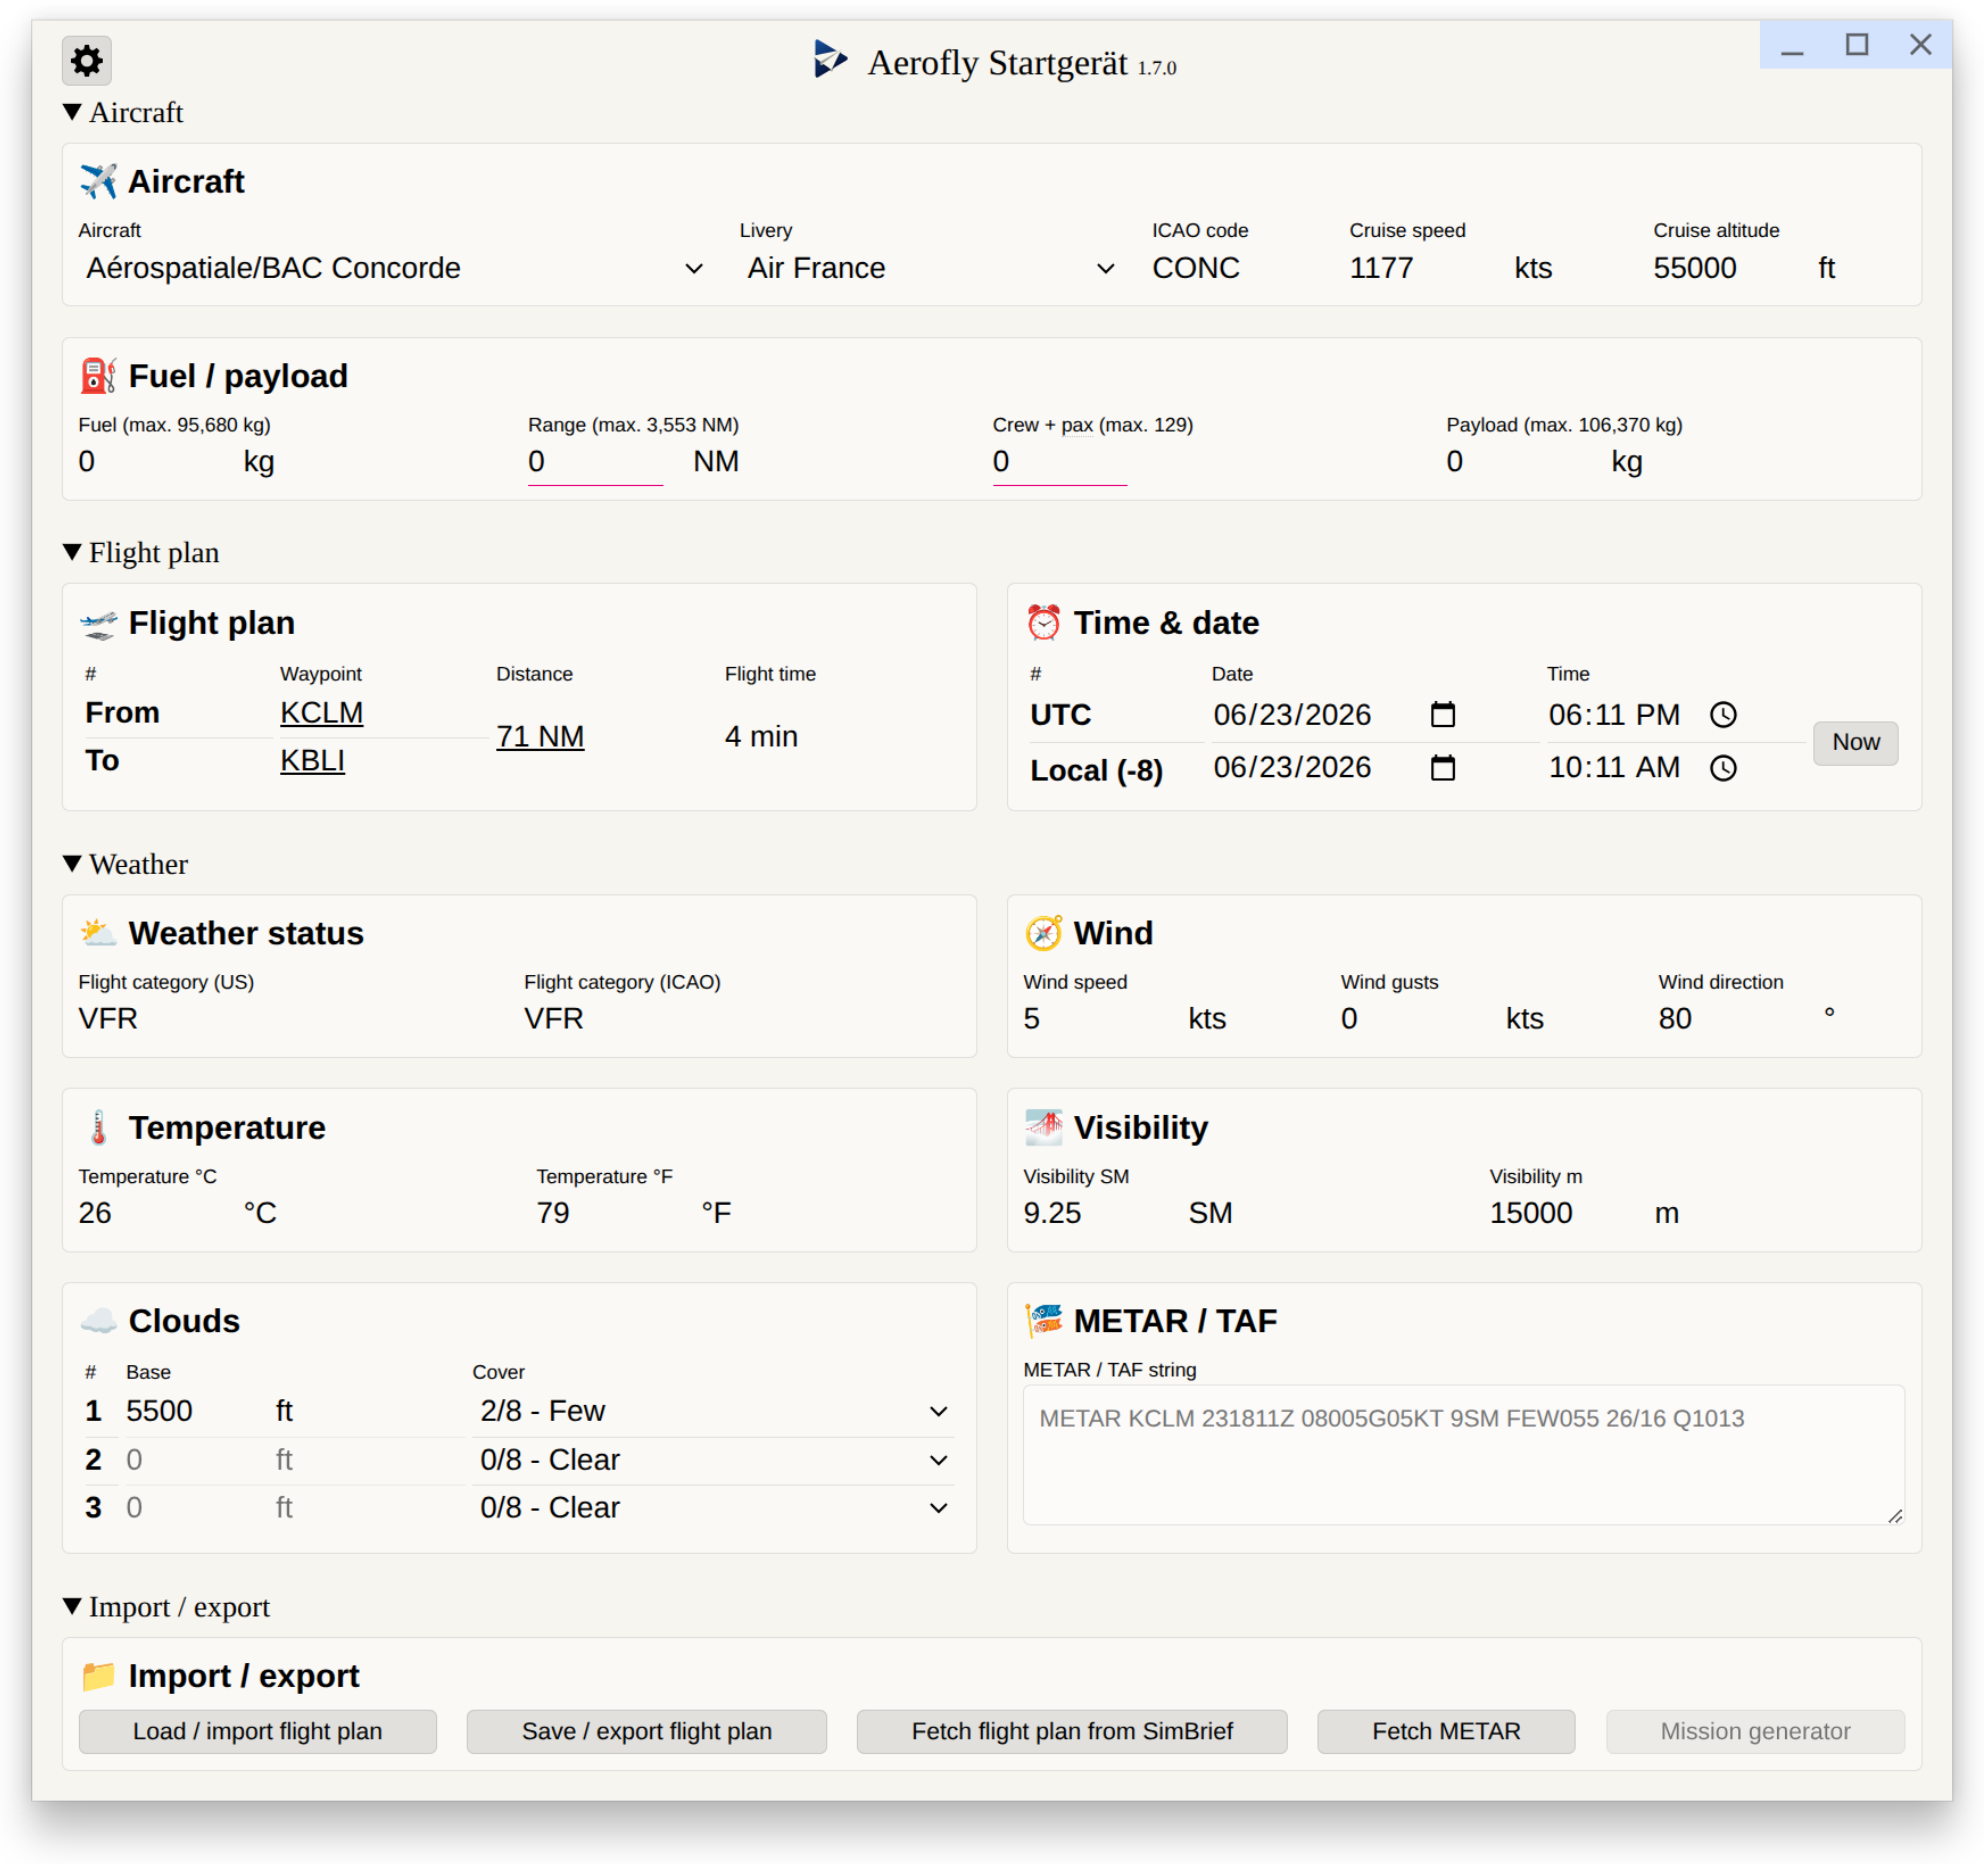
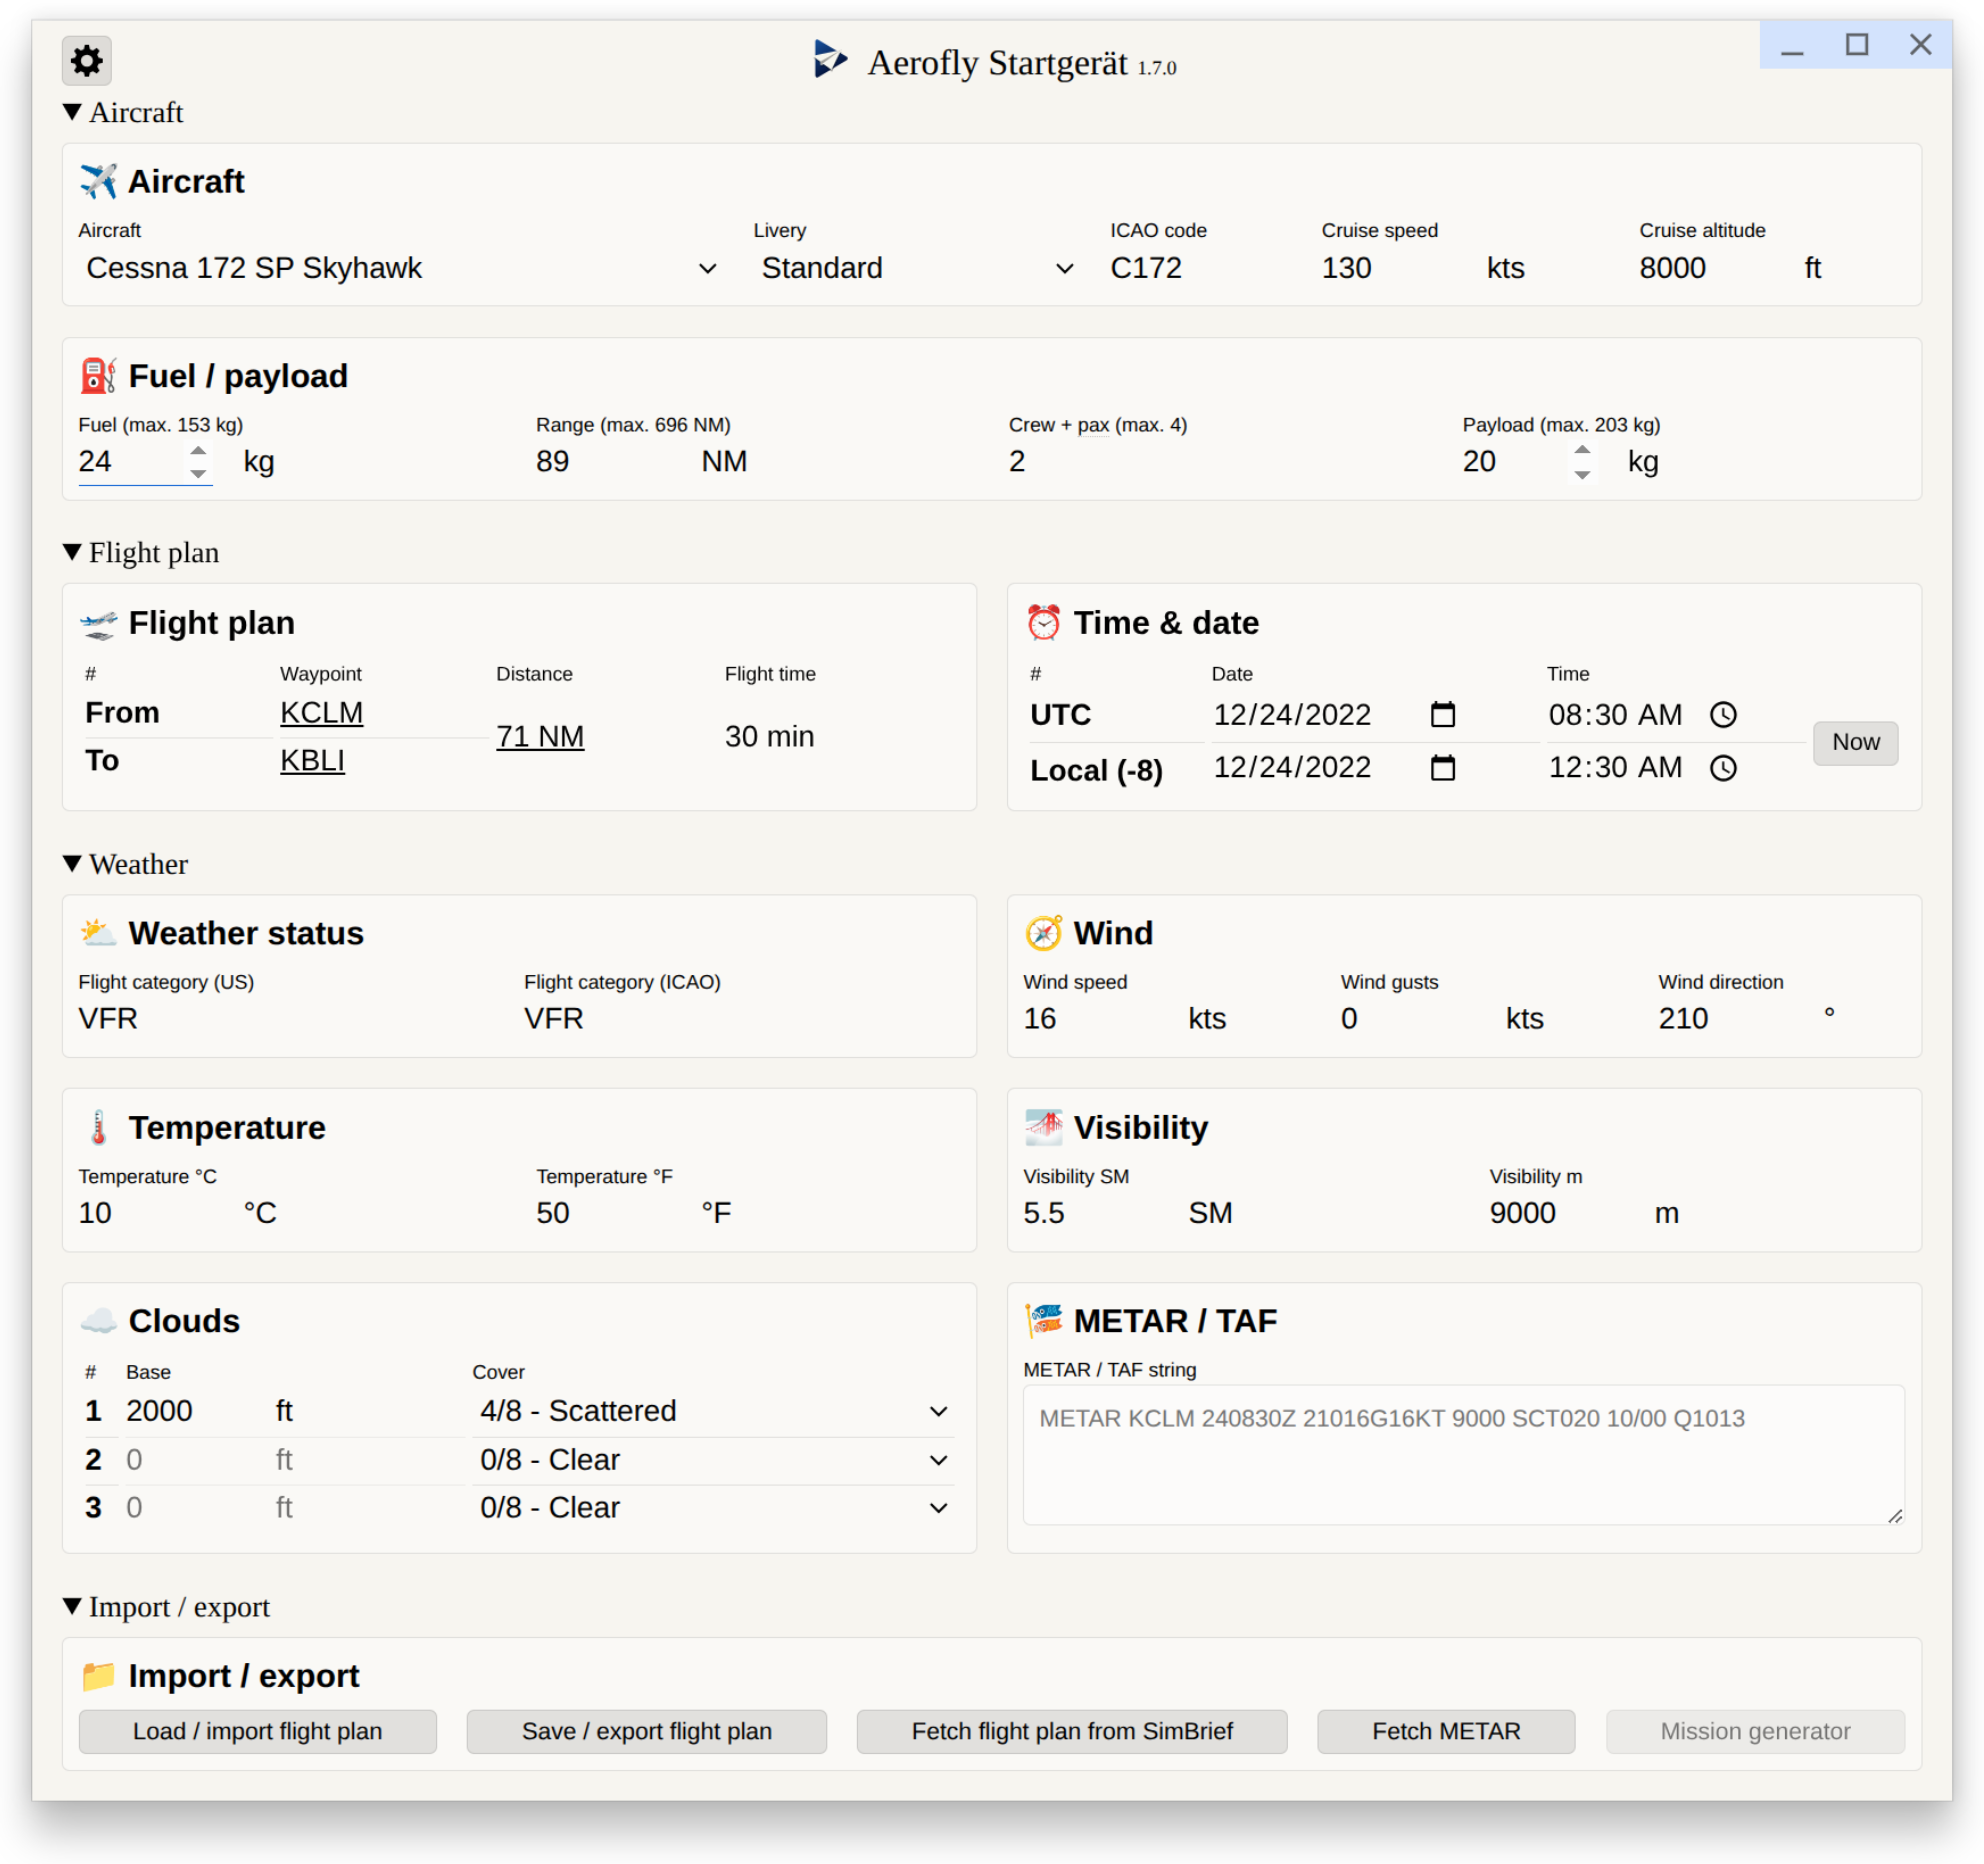
Improved fuel handling with persons

diff --git a/dist/gui/web-components/form/FuelPayloadWebComponent.js b/dist/gui/web-components/form/FuelPayloadWebComponent.js
@@ -65,14 +65,20 @@ export class FuelPayloadWebComponent extends AbstractStateSubscriberWebComponent
             const fuelMassMax = Math.floor(state.aircraftData?.maximumFuelMassKg ?? 0);
             const maxRange = Math.floor(state.aircraftData?.maximumRangeNm ?? 0);
             const maxPersons = Math.min(state.aircraftData?.maximumPersonsOnBoard ?? Infinity, Math.floor(state.getMaxRemainingPayload_kg / this.weightProPerson_kg));
-            const personsMass = Math.floor(this.elements.persons.valueAsNumber * this.weightProPerson_kg);
+            const personsMass = this.getPersonMass();
             const maxPayload = Math.floor(state.getMaxRemainingPayload_kg - personsMass);
             const payloadMass = Math.max(0, Math.floor(state.aeroflyFlight.fuelLoadSetting.payloadMass - personsMass));
             this.maximumTakeoffMassKg = state.aircraftData?.maximumTakeoffMassKg ?? 1;
             const calculateRange = (fuelMass) => maxRange *
                 (fuelMass / (fuelMassMax || 1)) *
                 (1 - state.aeroflyFlight.fuelLoadSetting.payloadMass / this.maximumTakeoffMassKg);
-            const currentRange = calculateRange(state.aeroflyFlight.fuelLoadSetting.fuelMass), lowerBound = calculateRange(state.aeroflyFlight.fuelLoadSetting.fuelMass - 1), upperBound = calculateRange(state.aeroflyFlight.fuelLoadSetting.fuelMass + 1);
+            const calculatedRange = calculateRange(state.aeroflyFlight.fuelLoadSetting.fuelMass), lowerBound = calculateRange(state.aeroflyFlight.fuelLoadSetting.fuelMass - 1), upperBound = calculateRange(state.aeroflyFlight.fuelLoadSetting.fuelMass + 1);
+            /*console.log({
+                lowerBound,
+                valueAsNumber: this.elements.range.valueAsNumber,
+                upperBound,
+                calculatedRange,
+            });*/
             // ----------------------------------
             this.elements.fuelMass.valueAsNumber = Math.floor(state.aeroflyFlight.fuelLoadSetting.fuelMass);
             this.elements.fuelMass.max = fuelMassMax.toFixed();
@@ -80,7 +86,7 @@ export class FuelPayloadWebComponent extends AbstractStateSubscriberWebComponent
             this.elements.fuelMassMax.textContent = fuelMassMax ? `(max. ${this.numberFormat(fuelMassMax)} kg)` : "";
             // TODO: Only change range slider if slider value could not have been created from the given fuel mass
             if (lowerBound > this.elements.range.valueAsNumber || upperBound < this.elements.range.valueAsNumber) {
-                this.elements.range.valueAsNumber = Math.floor(currentRange);
+                this.elements.range.valueAsNumber = Math.floor(calculatedRange);
             }
             this.elements.range.classList.toggle("input-warning", this.elements.range.valueAsNumber < state.route.distance_nm);
             this.title = `Recommended minimal range: ${state.route.distance_nm.toFixed()} NM`;
@@ -109,14 +115,21 @@ export class FuelPayloadWebComponent extends AbstractStateSubscriberWebComponent
         this.removeEventListener("input", this.handleChange);
     }
     handleRangeChange = () => {
-        const maxRange = parseFloat(this.elements.range.max);
         const range = this.elements.range.valueAsNumber;
+        if (range < 1) {
+            this.elements.fuelMass.valueAsNumber = 0;
+            return;
+        }
+        const maxRange = parseFloat(this.elements.range.max);
         if (maxRange > 0) {
-            const fuelMass = Math.ceil(((range / maxRange) * parseFloat(this.elements.fuelMass.max)) /
-                (1 - this.elements.payloadMass.valueAsNumber / this.maximumTakeoffMassKg));
+            const divider = 1 - (this.elements.payloadMass.valueAsNumber + this.getPersonMass()) / this.maximumTakeoffMassKg || 1;
+            const fuelMass = Math.ceil(((range / maxRange) * parseFloat(this.elements.fuelMass.max)) / divider);
             this.elements.fuelMass.valueAsNumber = fuelMass;
         }
     };
+    getPersonMass() {
+        return this.elements.persons.valueAsNumber * this.weightProPerson_kg;
+    }
     handleChange = () => {
         sendToMain("fuel-payload:set", this.state);
     };

diff --git a/src/gui/web-components/form/FuelPayloadWebComponent.ts b/src/gui/web-components/form/FuelPayloadWebComponent.ts
@@ -94,19 +94,27 @@ export class FuelPayloadWebComponent extends AbstractStateSubscriberWebComponent
                 state.aircraftData?.maximumPersonsOnBoard ?? Infinity,
                 Math.floor(state.getMaxRemainingPayload_kg / this.weightProPerson_kg),
             );
-            const personsMass = Math.floor(this.elements.persons.valueAsNumber * this.weightProPerson_kg);
+            const personsMass = this.getPersonMass();
 
             const maxPayload = Math.floor(state.getMaxRemainingPayload_kg - personsMass);
             const payloadMass = Math.max(0, Math.floor(state.aeroflyFlight.fuelLoadSetting.payloadMass - personsMass));
 
             this.maximumTakeoffMassKg = state.aircraftData?.maximumTakeoffMassKg ?? 1;
+
             const calculateRange = (fuelMass: number) =>
                 maxRange *
                 (fuelMass / (fuelMassMax || 1)) *
                 (1 - state.aeroflyFlight.fuelLoadSetting.payloadMass / this.maximumTakeoffMassKg);
-            const currentRange = calculateRange(state.aeroflyFlight.fuelLoadSetting.fuelMass),
+            const calculatedRange = calculateRange(state.aeroflyFlight.fuelLoadSetting.fuelMass),
                 lowerBound = calculateRange(state.aeroflyFlight.fuelLoadSetting.fuelMass - 1),
                 upperBound = calculateRange(state.aeroflyFlight.fuelLoadSetting.fuelMass + 1);
+
+            /*console.log({
+                lowerBound,
+                valueAsNumber: this.elements.range.valueAsNumber,
+                upperBound,
+                calculatedRange,
+            });*/
 
             // ----------------------------------
 
@@ -117,7 +125,7 @@ export class FuelPayloadWebComponent extends AbstractStateSubscriberWebComponent
 
             // TODO: Only change range slider if slider value could not have been created from the given fuel mass
             if (lowerBound > this.elements.range.valueAsNumber || upperBound < this.elements.range.valueAsNumber) {
-                this.elements.range.valueAsNumber = Math.floor(currentRange);
+                this.elements.range.valueAsNumber = Math.floor(calculatedRange);
             }
 
             this.elements.range.classList.toggle(
@@ -159,17 +167,25 @@ export class FuelPayloadWebComponent extends AbstractStateSubscriberWebComponent
     }
 
     private handleRangeChange = () => {
-        const maxRange = parseFloat(this.elements.range.max);
         const range = this.elements.range.valueAsNumber;
+        if (range < 1) {
+            this.elements.fuelMass.valueAsNumber = 0;
+            return;
+        }
 
+        const maxRange = parseFloat(this.elements.range.max);
         if (maxRange > 0) {
-            const fuelMass = Math.ceil(
-                ((range / maxRange) * parseFloat(this.elements.fuelMass.max)) /
-                    (1 - this.elements.payloadMass.valueAsNumber / this.maximumTakeoffMassKg),
-            );
+            const divider =
+                1 - (this.elements.payloadMass.valueAsNumber + this.getPersonMass()) / this.maximumTakeoffMassKg || 1;
+
+            const fuelMass = Math.ceil(((range / maxRange) * parseFloat(this.elements.fuelMass.max)) / divider);
             this.elements.fuelMass.valueAsNumber = fuelMass;
         }
     };
+
+    private getPersonMass() {
+        return this.elements.persons.valueAsNumber * this.weightProPerson_kg;
+    }
 
     private handleChange = () => {
         sendToMain("fuel-payload:set", this.state);

diff --git a/dist/core/api/SimBriefAeroflyApi.js b/dist/core/api/SimBriefAeroflyApi.js
@@ -39,8 +39,7 @@ export class SimBriefAeroflyApi extends SimBriefApi {
         flight.fuelLoadSetting = new AeroflySettingsFuelLoad(aeroflyAircraftCode, Number(simbriefPayload.fuel.plan_ramp), Number(simbriefPayload.weights.payload), "Keep");
         flight.timeUtc = new AeroflyTimeUtc(new Date(simbriefPayload.times.sched_out));
         const waypoints = this.getWaypointsFromNavlog(simbriefPayload);
-        flight.navigation = new AeroflyNavigationConfig(waypoints.reduce((acc, wp) => Math.max(acc, wp.altitude ?? 0), 0), // max altitude of all waypoints for cruise altitude
-        [
+        flight.navigation = new AeroflyNavigationConfig(Number(simbriefPayload.general.initial_altitude), [
             new AeroflyNavRouteOrigin(simbriefPayload.origin.icao_code, Number(simbriefPayload.origin.pos_long), Number(simbriefPayload.origin.pos_lat), {
                 elevation_ft: Number(simbriefPayload.origin.elevation),
             }),
@@ -56,7 +55,7 @@ export class SimBriefAeroflyApi extends SimBriefApi {
             new AeroflyNavRouteDestination(simbriefPayload.destination.icao_code, Number(simbriefPayload.destination.pos_long), Number(simbriefPayload.destination.pos_lat), {
                 elevation_ft: Number(simbriefPayload.destination.elevation),
             }),
-        ]);
+        ], Number(simbriefPayload.general.cruise_tas));
     }
     getWaypointsFromNavlog(simbriefPayload) {
         const wayPoints = simbriefPayload.navlog

diff --git a/src/core/api/SimBriefAeroflyApi.ts b/src/core/api/SimBriefAeroflyApi.ts
@@ -86,7 +86,7 @@ export class SimBriefAeroflyApi extends SimBriefApi {
 
         const waypoints = this.getWaypointsFromNavlog(simbriefPayload);
         flight.navigation = new AeroflyNavigationConfig(
-            waypoints.reduce((acc, wp) => Math.max(acc, wp.altitude ?? 0), 0), // max altitude of all waypoints for cruise altitude
+            Number(simbriefPayload.general.initial_altitude),
             [
                 new AeroflyNavRouteOrigin(
                     simbriefPayload.origin.icao_code,
@@ -124,6 +124,7 @@ export class SimBriefAeroflyApi extends SimBriefApi {
                     },
                 ),
             ],
+            Number(simbriefPayload.general.cruise_tas),
         );
     }
 

diff --git a/types/core/api/SimBriefApi.d.ts b/types/core/api/SimBriefApi.d.ts
@@ -38,8 +38,13 @@ export type SimBriefApiPayloadFmsDownload = {
 };
 export type SimBriefApiPayload = {
     general: {
+        /**
+         * Feet
+         */
+        initial_altitude: string;
         icao_airline: string;
         cruise_tas: string;
+        passengers: string;
     };
     origin: SimBriefApiPayloadAirport;
     destination: SimBriefApiPayloadAirport;

diff --git a/src/core/api/SimBriefApi.ts b/src/core/api/SimBriefApi.ts
@@ -41,8 +41,13 @@ export type SimBriefApiPayloadFmsDownload = {
 
 export type SimBriefApiPayload = {
     general: {
+        /**
+         * Feet
+         */
+        initial_altitude: string;
         icao_airline: string;
         cruise_tas: string;
+        passengers: string;
     };
     origin: SimBriefApiPayloadAirport;
     destination: SimBriefApiPayloadAirport;

diff --git a/types/gui/web-components/form/FuelPayloadWebComponent.d.ts b/types/gui/web-components/form/FuelPayloadWebComponent.d.ts
@@ -13,6 +13,7 @@ export declare class FuelPayloadWebComponent extends AbstractStateSubscriberWebC
     connectedCallback(): void;
     disconnectedCallback(): void;
     private handleRangeChange;
+    private getPersonMass;
     private handleChange;
     private numberFormat;
     static registerElement(): void;
